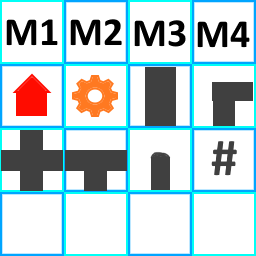
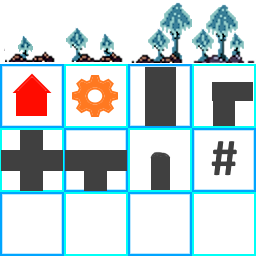
Temporary Mushroom rendering and generation DONE

Changed region(s): [[0.0, 0.0, 1.0, 0.25]]

diff --git a/VolcanicTransport/VolcanicTransport-WPF/View/VisualChunk.cs b/VolcanicTransport/VolcanicTransport-WPF/View/VisualChunk.cs
@@ -46,10 +46,31 @@ namespace VolcanicTransport_WPF.View
                     dc.DrawRectangle(brush, null, new Rect(fieldX, fieldY, Field.FieldSize, Field.FieldSize));
 
                     // Render Surface (Roads, Bridges, Mushrooms)
-                    if (f.Surface == null)
+                    if (f.Surface != null)
                     {
+                        ImageSource? image = TextureAtlas.RoadInvalidTexture;
+
+                        if (f.Surface is Mushroom m)
+                        {
+                            switch (m.GrowthStage)
+                            {
+                                case MushroomGrowthStage.SPROUT:
+                                    image = TextureAtlas.MushroomTexture1;
+                                    break;
+                                case MushroomGrowthStage.JUVENILE:
+                                    image = TextureAtlas.MushroomTexture2;
+                                    break;
+                                case MushroomGrowthStage.ADULT:
+                                    image = TextureAtlas.MushroomTexture3;
+                                    break;
+                                case MushroomGrowthStage.FULLY_GROWN:
+                                    image = TextureAtlas.MushroomTexture4;
+                                    break;
+                            }
+                        }
+                        
                         dc.DrawImage(
-                            TextureAtlas.FactoryBuildingTexture,
+                            image,
                             new Rect(fieldX, fieldY, Field.FieldSize, Field.FieldSize));
                     }
                 });

diff --git a/VolcanicTransport/VolcanicTransport-WPF/View/TextureAtlas.cs b/VolcanicTransport/VolcanicTransport-WPF/View/TextureAtlas.cs
@@ -47,9 +47,7 @@ namespace VolcanicTransport_WPF.View
             _isLoaded = true;
         }
 
-        private static ImageSource GetTile(BitmapSource atlas, int col, int row)
-        {
-            return new CroppedBitmap(atlas, new Int32Rect(col * 64, row * 64, 64, 64));
-        }
+        private static ImageSource GetTile(BitmapSource atlas, int row, int col)
+            => new CroppedBitmap(atlas, new Int32Rect(col * 64, row * 64, 64, 64));
     }
 }
